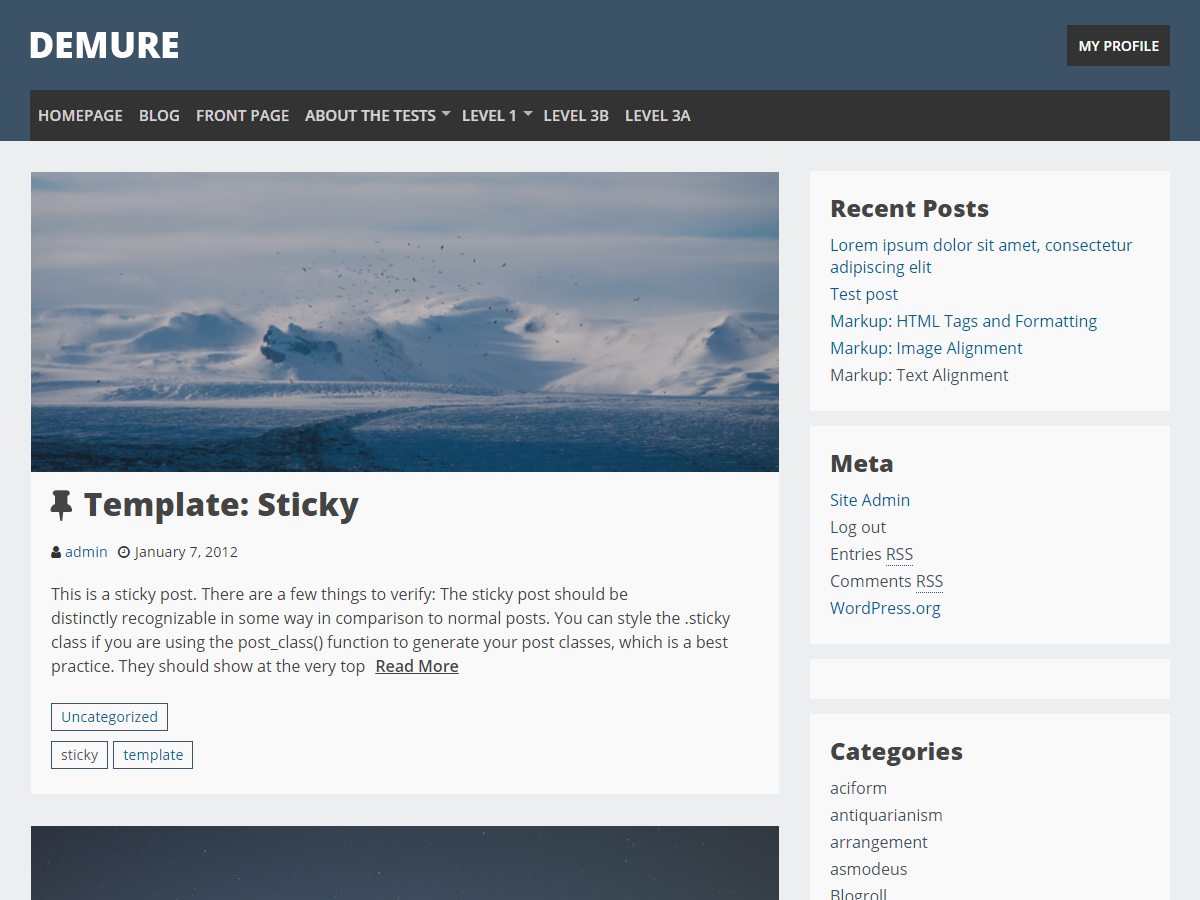
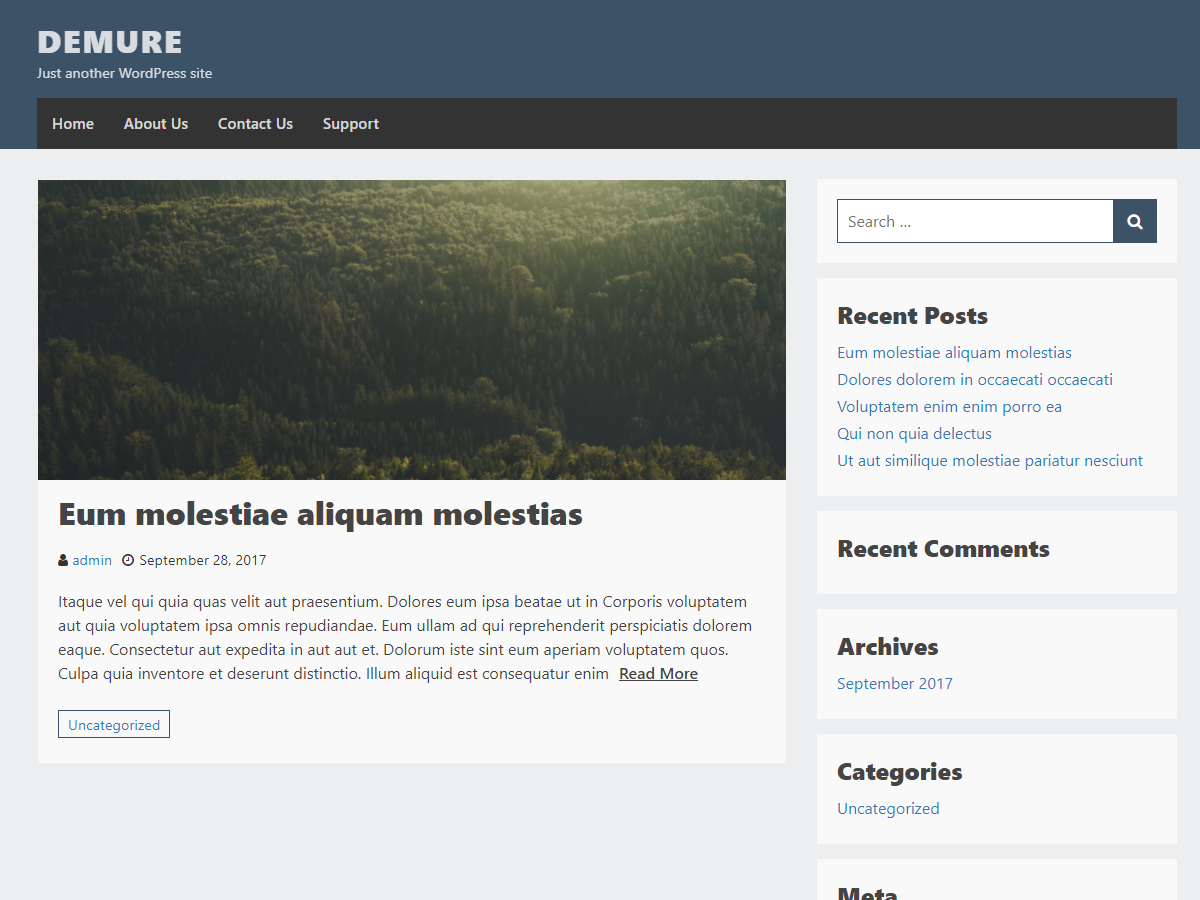
Updated readme adn screenshot

diff --git a/style.css b/style.css
@@ -635,9 +635,10 @@ blockquote p {
 
 #masthead .branding h1 {
 	text-align: left;
-	margin: 0;
-	font-size: 1.4em;
-	display: block;
+    margin: 0;
+    font-size: 2em;
+    display: block;
+    letter-spacing: 0.05em;
 }
 
 #masthead .branding {

diff --git a/functions.php b/functions.php
@@ -88,11 +88,6 @@ function demure_setup() {
 	add_theme_support( 'post-thumbnails' );
 	
 	/**
-	 * Add post formats
-	 */
-	add_theme_support( 'post-formats', array( 'image', 'gallery' ) );
-	
-	/**
 	 * Add custom logo support
 	 */
 	add_theme_support( 'custom-logo', array(
@@ -111,10 +106,9 @@ function demure_setup() {
 	) );
 	
 	/**
-	 * Register Primary and Secondary menus
+	 * Register Primary menu
 	 */
 	register_nav_menu( 'primary', 'Primary Menu' );
-	register_nav_menu( 'secondary', 'Secondary Menu' );
 	
 }
 endif;

diff --git a/README.md b/README.md
@@ -1,7 +1,7 @@
 # Demure
 **Contributors:** Vitaliy Konurin <br />
 **Requires at least:** WordPress 4.4<br />
-**Tested up to:** WordPress 4.8<br />
+**Tested up to:** WordPress 4.8.2<br />
 **Version:** 1.0.3<br />
 **License:** GPLv2 or later<br />
 **License URI:** http://www.gnu.org/licenses/gpl-2.0.html<br />
@@ -10,6 +10,11 @@
 
 # Description
 Demure is a wonderful multipurpose WordPress theme for business, portfolio, creative and blog websites. With its great number of features and customizations like color and font options, different pages layouts, beautiful slider and theme options it brings everything to create an expressive website.
+
+# Installation
+1. In your admin panel, go to Appearance > Themes and click the Add New button.
+1. Click Upload and Choose File, then select the theme's .zip file. Click Install Now.
+1. Click Activate to use your new theme right away.
 
 # Credits
 **Redux Framework** – http://reduxframework.com Licensed under the Version 2 of the GNU General Public License <br />
@@ -21,3 +26,9 @@ Demure is a wonderful multipurpose WordPress theme for business, portfolio, crea
 **Holder.js** - http://holderjs.com ver. 2.9.0 · Code licensed MIT<br />
 **Selectize** - https://github.com/selectize/selectize.js ver. 0.12.4 · Licensed under the Apache License, Version 2.0<br />
 **smooth-scroll** - http://github.com/cferdinandi/smooth-scroll v10.2.1 · Code licensed MIT<br />
+
+# Image used in screenshot 
+Resource URI: https://unsplash.com/photos/LIHiWVXaUyM
+Copyright: Daniel Frank
+License: CC0
+License URI: https://creativecommons.org/publicdomain/zero/1.0/
